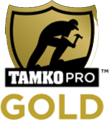
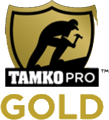
Location depth round 2 (Loveland, Milford, Anderson Twp, Blue Ash) + TAMKO badge artifact cleanup (#1215)
Adds "The <City> Roofs I Actually See" local-knowledge sections to four more area pages (real neighborhoods, qualitative claims only). Clears the opaque white disc in GOLD's O counter and the cream edge debris from all three TAMKO Pro Gold badge PNGs — visible as white blobs in the dark footer cert bar; TAMKO PRO lettering untouched.

diff --git a/docs/areas/blue-ash-oh.html b/docs/areas/blue-ash-oh.html
@@ -465,6 +465,21 @@ nav .nav-logo-text .sub{white-space:nowrap}
   </div>
 </section>
 
+<!-- LOCAL KNOWLEDGE -->
+<section>
+  <div class="section-inner">
+    <div class="eyebrow">Local knowledge</div>
+    <h2 class="sec-title">The Blue Ash Roofs <span>I Actually See</span></h2>
+    <div class="storm-section">
+      <p style="margin-bottom:14px">Blue Ash has one of the most distinctive housing stocks in the metro, and it changes how I quote here:</p>
+      <p style="margin-bottom:12px"><strong>The mid-century neighborhoods</strong> — the streets off Kenwood, Hunt, and Cooper are full of 60s and 70s ranches and split-levels. Long, simple gables are the easy part; the catch is the low-slope sections and flat-roof additions a lot of these homes carry. Standard shingles below a certain pitch are an installation error, not an option — those sections need the right membrane, and I'll tell you when that's what your roof calls for.</p>
+      <p style="margin-bottom:12px"><strong>The redevelopment wave</strong> — closer to Summit Park and downtown Blue Ash, older homes are being replaced or heavily renovated. If you're mid-renovation, sequencing matters: roof before solar, before gutters, before exterior paint. I coordinate with the other trades so nothing gets done twice.</p>
+      <p style="margin-bottom:12px"><strong>Mature trees on mature streets</strong> — like the rest of the older east side, Blue Ash's canopy means limb damage and shaded, streaking slopes. Streaking is usually cosmetic; a limb strike never is. Knowing which is which is the difference between a soft-wash recommendation and an insurance claim — and I'll tell you honestly which one you have.</p>
+      <p>Ranch, split-level, or new build — I walk it personally, and the quote reflects your actual roof, not a template.</p>
+    </div>
+  </div>
+</section>
+
 <!-- SERVICES -->
 <section style="background:var(--off-white)">
   <div class="section-inner">

diff --git a/docs/areas/anderson-township-oh.html b/docs/areas/anderson-township-oh.html
@@ -465,6 +465,21 @@ nav .nav-logo-text .sub{white-space:nowrap}
   </div>
 </section>
 
+<!-- LOCAL KNOWLEDGE -->
+<section>
+  <div class="section-inner">
+    <div class="eyebrow">Local knowledge</div>
+    <h2 class="sec-title">The Anderson Township Roofs <span>I Actually See</span></h2>
+    <div class="storm-section">
+      <p style="margin-bottom:14px">Anderson is one of the older established suburbs on the east side, and its roofs show it — in a good way and a bad way:</p>
+      <p style="margin-bottom:12px"><strong>The established neighborhoods</strong> — much of the housing stock off Beechmont, Salem, and Eight Mile went up in the 60s through the 80s, which means many of these homes are on their second or third roof. Re-roofs are where shortcuts hide: I check ventilation and decking on every one, because a roof that was covered instead of corrected twenty years ago fails early.</p>
+      <p style="margin-bottom:12px"><strong>The tree canopy</strong> — Anderson's mature trees are the neighborhood's best feature and its roofs' hardest opponent. Limb strikes after wind events, gutters that fill fast, and shaded slopes that streak. A wind claim with a limb involved is documented differently than plain shingle loss — I handle that distinction on the inspection.</p>
+      <p style="margin-bottom:12px"><strong>Turpin Hills and the Coldstream side</strong> — larger homes with complex rooflines, and premium materials show up more often here. Bigger, more complicated roofs are exactly where you want one person accountable start to finish instead of a rotating crew of subs.</p>
+      <p>Ridge or valley, 60s ranch or custom build — I walk it personally and put what I find in writing.</p>
+    </div>
+  </div>
+</section>
+
 <!-- SERVICES -->
 <section style="background:var(--off-white)">
   <div class="section-inner">

diff --git a/docs/areas/milford-oh.html b/docs/areas/milford-oh.html
@@ -465,6 +465,21 @@ nav .nav-logo-text .sub{white-space:nowrap}
   </div>
 </section>
 
+<!-- LOCAL KNOWLEDGE -->
+<section>
+  <div class="section-inner">
+    <div class="eyebrow">Local knowledge</div>
+    <h2 class="sec-title">The Milford Roofs <span>I Actually See</span></h2>
+    <div class="storm-section">
+      <p style="margin-bottom:14px">Milford is really two roofing towns stacked on a hill, plus the townships around it:</p>
+      <p style="margin-bottom:12px"><strong>Old Milford</strong> — the historic blocks around Main Street carry pre-war homes with steep pitches, older framing, and roofs that have been layered or patched over decades. On these I start with the decking and the flashing, not the shingles — that's where old-house roofs actually fail.</p>
+      <p style="margin-bottom:12px"><strong>Up the hill</strong> — the subdivisions off SR 131 and the Wolfpen-Pleasant Hill side, plus Day Heights and the Miami Township neighborhoods, are mostly 80s-through-2000s builds. Same-age builder shingles across whole streets means storm claims cluster: when a hail event qualifies one house, the neighbors' roofs went through the identical storm at the identical age.</p>
+      <p style="margin-bottom:12px"><strong>The river tree cover</strong> — anywhere near the Little Miami, mature trees add limb damage on top of hail and wind. Insurance treats a limb strike differently from wear, and documenting which one happened is exactly the kind of thing I photograph on every inspection.</p>
+      <p>Old house or new build, the process is the same: I walk it, document it, and give it to you straight.</p>
+    </div>
+  </div>
+</section>
+
 <!-- SERVICES -->
 <section style="background:var(--off-white)">
   <div class="section-inner">

diff --git a/docs/areas/loveland-oh.html b/docs/areas/loveland-oh.html
@@ -465,6 +465,21 @@ nav .nav-logo-text .sub{white-space:nowrap}
   </div>
 </section>
 
+<!-- LOCAL KNOWLEDGE -->
+<section>
+  <div class="section-inner">
+    <div class="eyebrow">Local knowledge</div>
+    <h2 class="sec-title">The Loveland Roofs <span>I Actually See</span></h2>
+    <div class="storm-section">
+      <p style="margin-bottom:14px">Loveland sits where three counties meet, and that shapes both the roofs and the paperwork:</p>
+      <p style="margin-bottom:12px"><strong>Historic downtown and the river streets</strong> — the older homes near the bike trail and the Little Miami carry steep pitches, mature tree cover, and decking that's seen a few generations of roofs. Trees mean two things here: limb strikes after wind events, and heavy shade that streaks north-facing slopes. Neither one is cosmetic-only — I check both.</p>
+      <p style="margin-bottom:12px"><strong>The subdivision side</strong> — the 90s and 2000s developments up out of the valley toward Symmes Township and the Maineville line went in with builder-grade shingles that are now aging into replacement territory street by street.</p>
+      <p style="margin-bottom:12px"><strong>The three-county wrinkle</strong> — Loveland spans Hamilton, Clermont, and Warren counties, and your side of the line decides which building department your permit and your inspection go through. I've pulled permits in all three. You don't need to figure out which one you're in — that's my job.</p>
+      <p>Wherever your Loveland roof sits, I walk it personally and tell you what it actually needs.</p>
+    </div>
+  </div>
+</section>
+
 <!-- SERVICES -->
 <section style="background:var(--off-white)">
   <div class="section-inner">

diff --git a/documentation/audit/DESIGNER-AUDIT-VERIFICATION-2026-08-15.md b/documentation/audit/DESIGNER-AUDIT-VERIFICATION-2026-08-15.md
@@ -136,3 +136,13 @@ in all 25 area pages' JSON-LD (verify HQ intent).
   stats per VOICE_BIBLE. **Remaining drip queue:** loveland, milford,
   anderson-township, blue-ash, cincinnati (already deepest), then the rest
   at 2-3 pages per session.
+- **Round 2 (2026-08-17, same day):** `loveland-oh` (river-streets tree
+  cover, subdivision side, three-county permit wrinkle), `milford-oh`
+  (Old Milford decking/flashing, SR 131 / Day Heights claim clustering,
+  river tree cover), `anderson-township-oh` (60s-80s second/third-roof
+  stock, tree canopy claims, Turpin Hills / Coldstream complexity),
+  `blue-ash-oh` (mid-century low-slope sections need membrane not
+  shingles, Summit Park renovation sequencing, canopy streak-vs-strike).
+  **Remaining queue:** the other 18 area pages at 2-3 per session —
+  next natural picks: montgomery? (no page), amelia, goshen, monroe,
+  lebanon, springboro. Cincinnati already has its extra section.
